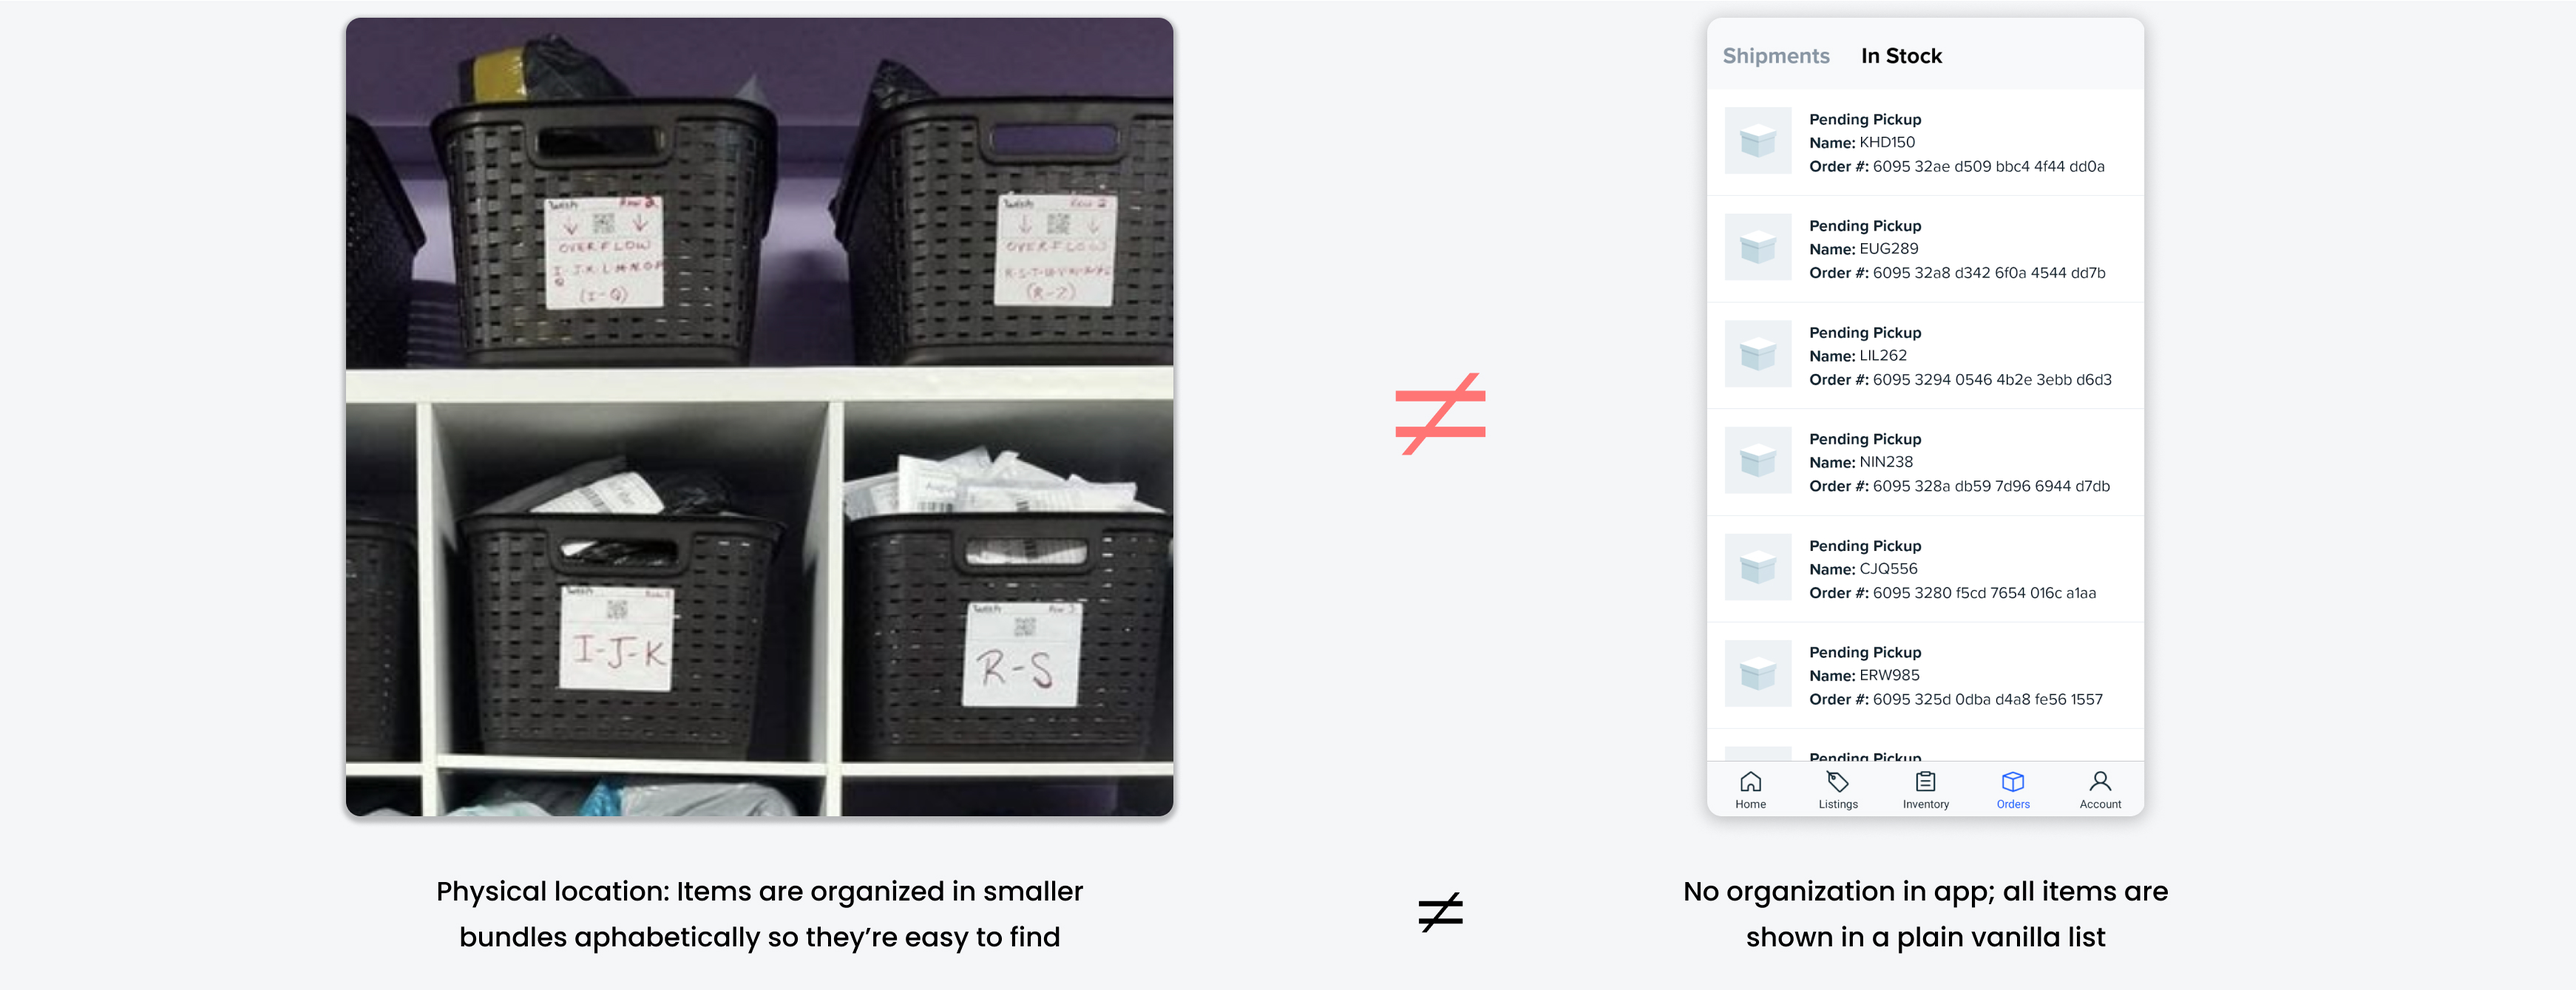
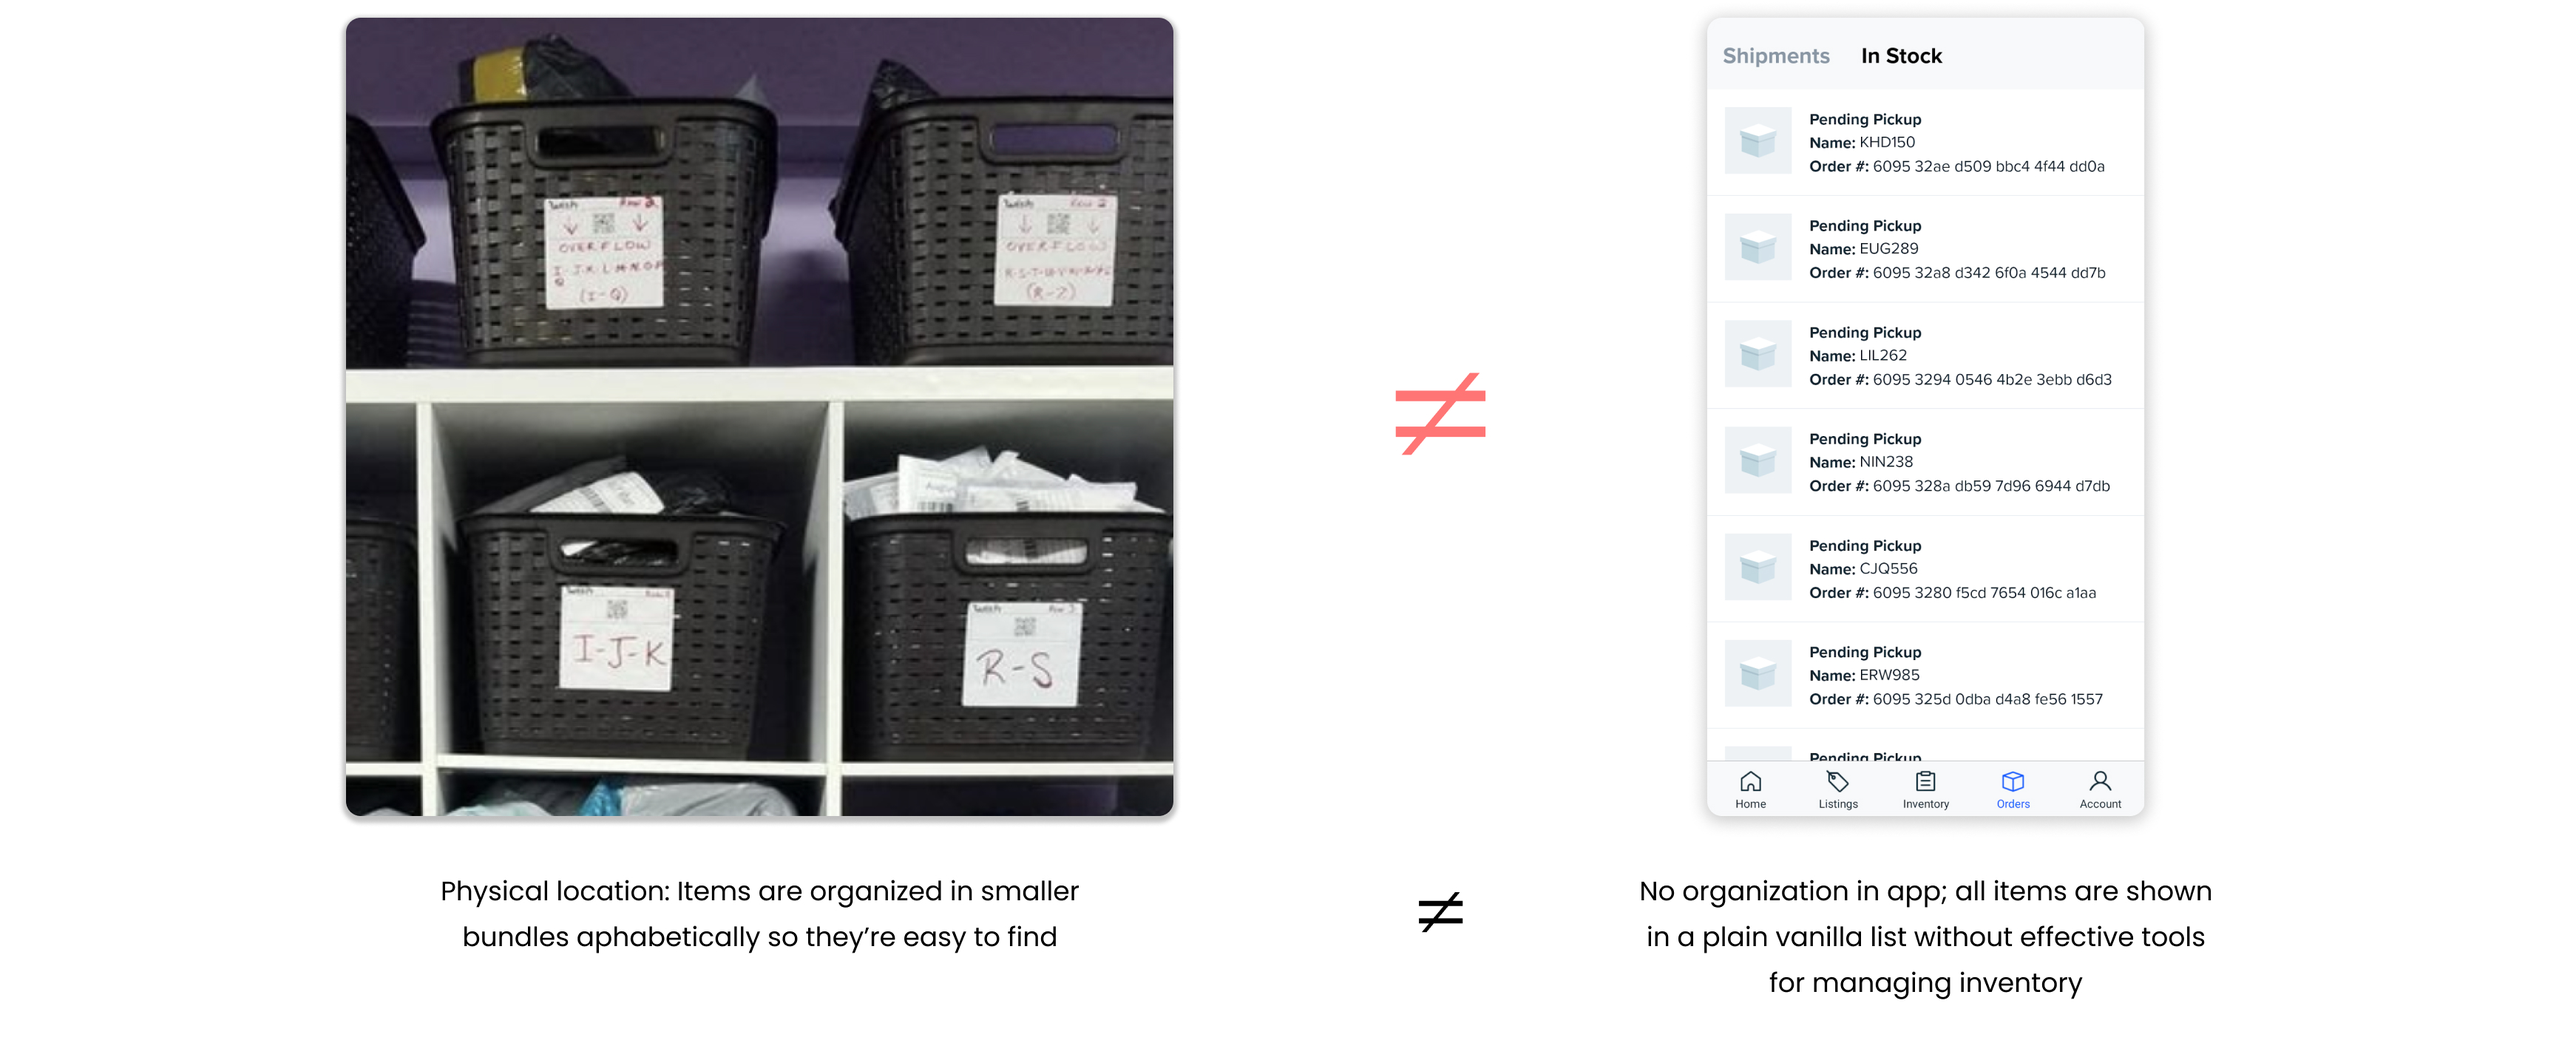
last changes

diff --git a/wish_local.html b/wish_local.html
@@ -150,10 +150,16 @@
         <h2>Let's meet Rob to get the full picture</h2>
         <p>I created a storyboard using our existing illustration library to put myself and stakeholders in users' shoes. I used this story during design crits to quickly set the context before presenting my designs. The storyboard included insights we got from interviews, for example, showing the scale of items stores have to handle, how busy the storeowner is while processing a pickup, how the customer might also be in a rush, how stores organize Wish inventory in their stores for quick pickup, and how might we help the store with managing inventory for a quick pickup process.</p>
       </section>
-      <section class="proj-sec-full" style="padding-bottom: 80px;">
+      <section class="proj-sec-full" style="padding-bottom: 160px;">
         <img src="images/wish-local/story.jpg" alt="story" width="100%" style="padding: 0;"> 
       </section>
-      <section class="proj-sec" style="padding-bottom: 60px; padding-top: 60px;">
+      <section class="proj-sec-full" style="padding-bottom: 140px;">
+        <img src="images/wish-local/mismatch.jpg" alt="mismatch" width="100%" style="padding: 0;"> 
+      </section>
+    </article>
+
+    <article class="proj-container proj-container-grey">
+      <section class="proj-sec" style="padding-bottom: 80px;">
         <h2>How stores currently organize Wish inventory in their physical location</h2>
         <p>Here are some insights we got:</p>
         <ul style="margin-left: 20px;">
@@ -168,24 +174,27 @@
       </section>
     </article>
 
-    <article class="proj-container proj-container-grey">
-      <section class="proj-sec" style="padding-bottom: 100px;">
+    <article class="proj-container proj-container-white">
+      <section class="proj-sec" style="padding-bottom: 60px;">
         <h4 style="color:#305BEF; padding-bottom: 15px;">2.2 – Reframing the challenge</h4> 
-        <h2>How might we bridge the gap between physical and digital? How might we guide stores along their journey of managing inventory?</h2>
+        <h2>How might we bridge the gap between physical and digital? How might we help stores maintain the inventory organization?</h2>
         <p>Our hypothesis was that stores will benefit if the app provided guidance around how to organize inventory, the inventory organization in the app reflected the physical organization and if the app provided tools to help stores maintain the organization. Below are some interview insights that informed our hypothesis: </p>
         <ul style="margin-left: 20px;">
-          <li>Ability to sort items in the app alphabetically:</li>
+          <li>Ability to sort items in the app alphabetically – reflect the physical organization method in-app</li>
           <p style="color: #727272; padding-top: 0;">"I organize items that are ready for pickup in my store alphabetically. Thus, I would like to be able to sort items in my app alphabetically"</p>
           <li>If any item activity happened in the app, stores would like to take action on the item in their physical location too:</li>
           <p style="color: #727272; padding-top: 0;">"When an item doesn't get picked up and gets relisted for sale, I would like to know when that happens so I can move that item in my store to its correct location"</p>
         </ul>
       </section>
-      <section class="proj-sec-full" style="padding-bottom: 140px;">
-        <img src="images/wish-local/mismatch.jpg" alt="mismatch" width="100%" style="padding: 0;"> 
+      <section class="proj-sec" style="padding-bottom: 0px; padding-top: 100px;">
+        <h2 style="text-align: center;">Let's meet Rob again to see how Wish Local might help</h2>
+      </section>
+      <section class="proj-sec-full" style="padding-bottom: 160px; padding-top: 80px;">
+        <img src="images/wish-local/story_whatif.jpg" alt="what if" width="100%" style="padding: 0;"> 
       </section>
     </article>
 
-    <article class="proj-container proj-container-white">
+    <article class="proj-container proj-container-grey">
       <section class="proj-sec" style="padding-bottom: 60px;">
         <h4 style="color:#305BEF; padding-bottom: 15px;">2.3 – Problem scoping</h4> 
         <h2>Goals for success</h2>
@@ -203,7 +212,7 @@
       </section>
     </article>
 
-    <article class="proj-container proj-container-grey">
+    <article class="proj-container proj-container-white">
       <section class="proj-sec" style="padding-bottom: 120px; text-align: center;">
         <h4 style="color:#305BEF; padding-bottom: 15px;">03 – Solution</h4> 
         <h2>Introducing a New, More Helpful Inventory Management Experience</h2>
